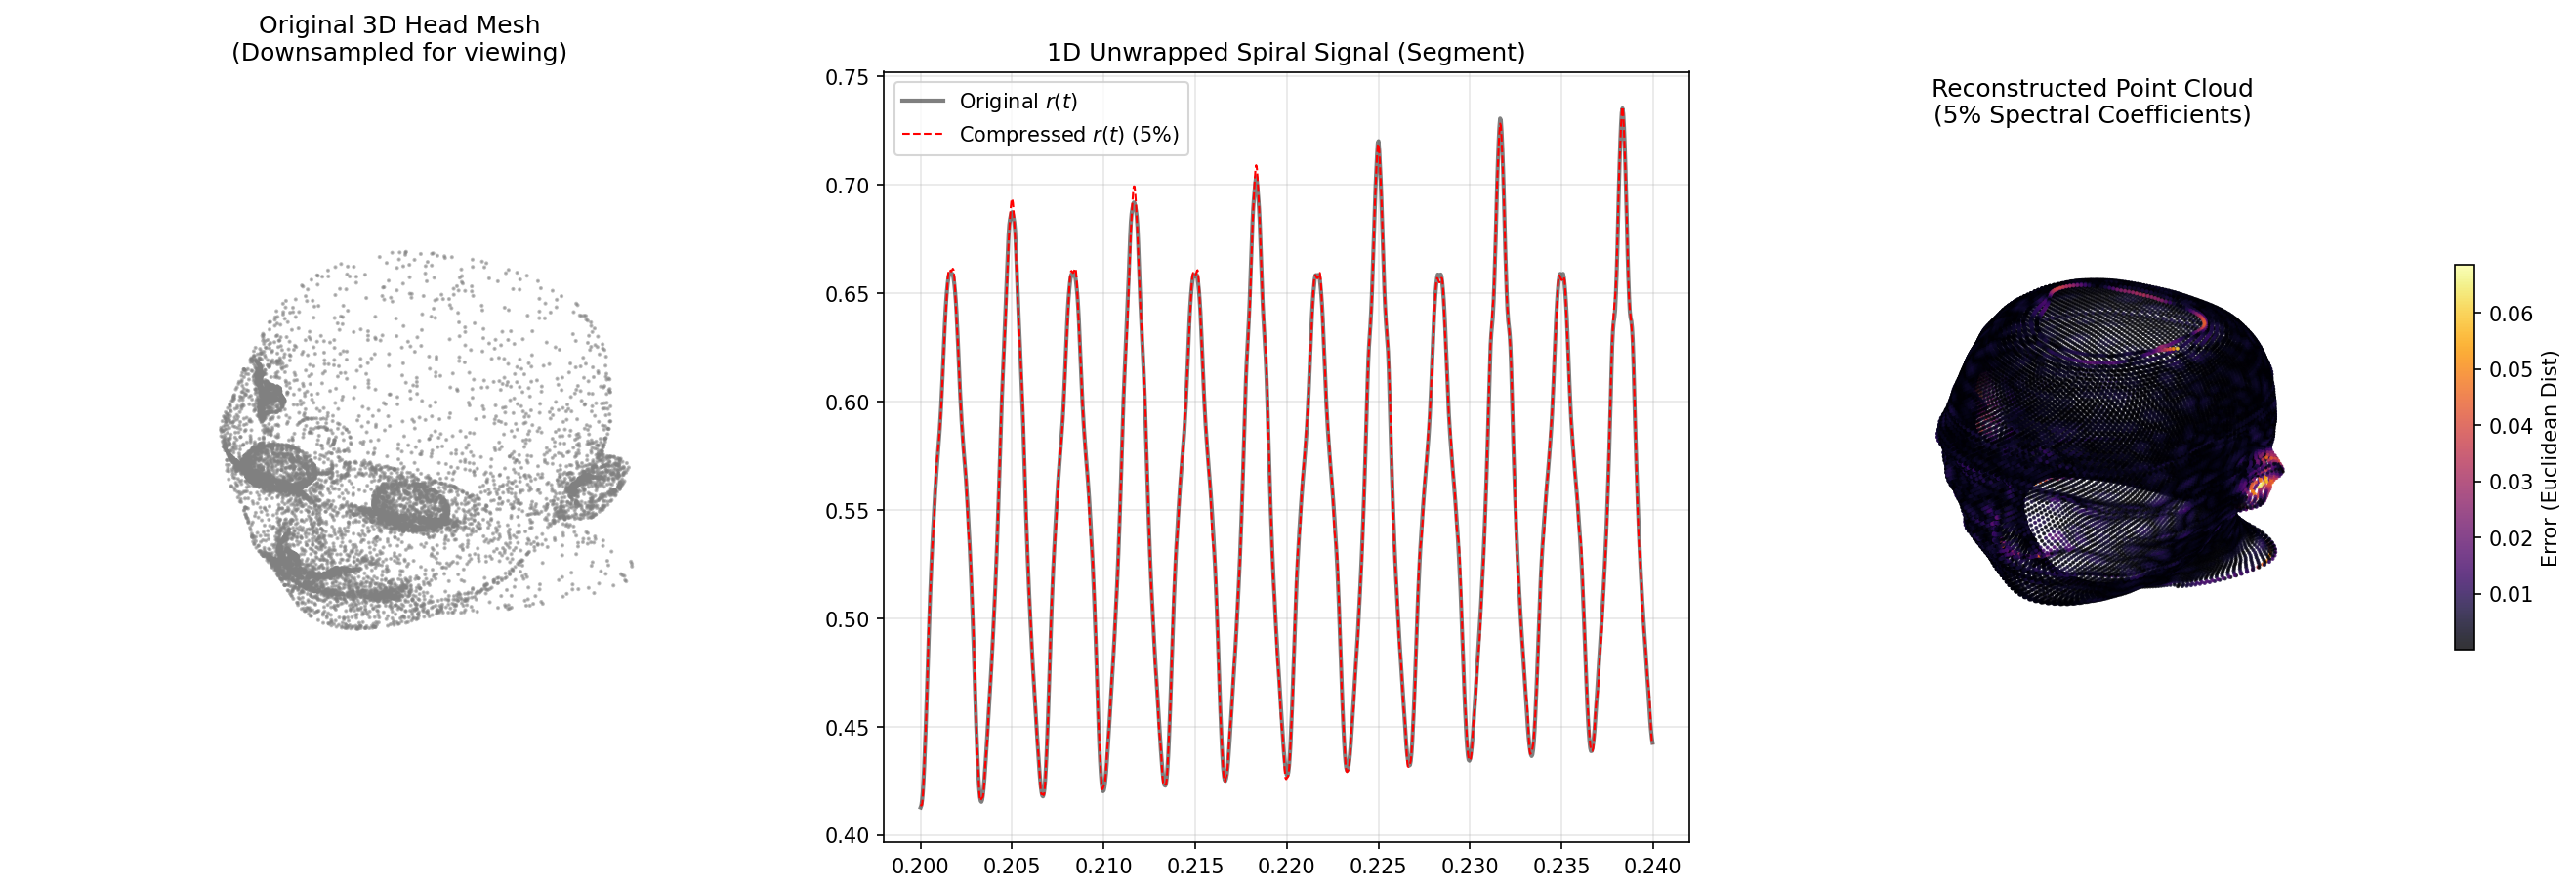
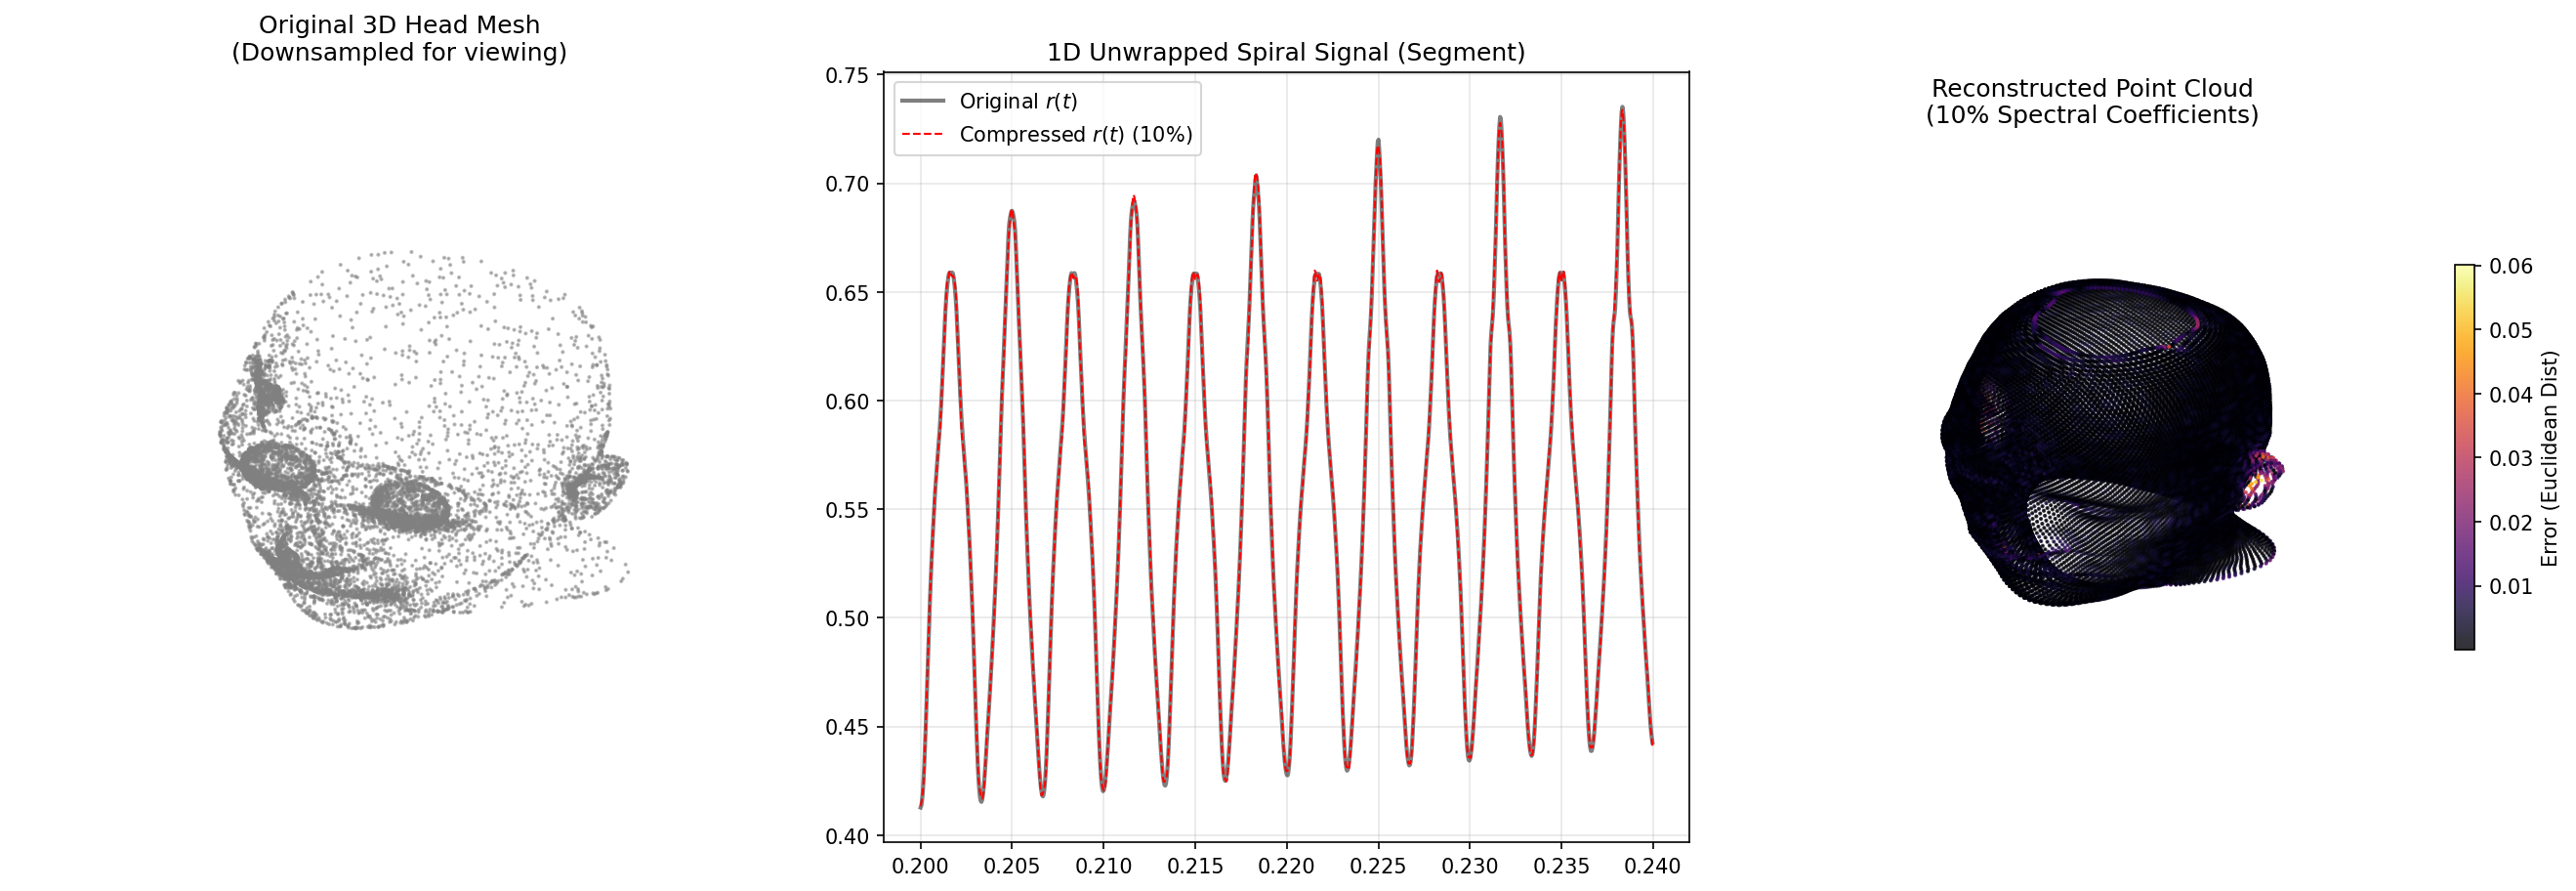
Add context

diff --git a/spectral-compression/scripts/mesh_compression_test.py b/spectral-compression/scripts/mesh_compression_test.py
@@ -103,8 +103,8 @@ def main():
     
     t, z_path, theta_path, r_path = raycast_spiral(mesh, n_windings=150, n_samples=25000)
     
-    # Keep 5% of coefficients
-    r_comp = spectral_compression(r_path, ratio=0.05)
+    # Keep 10% of coefficients
+    r_comp = spectral_compression(r_path, ratio=0.10)
     
     # Reconstruct 3D points
     print("Reconstructing compressed 3D point cloud...")
@@ -122,7 +122,7 @@ def main():
     recon_mesh = trimesh.Trimesh(vertices=np.column_stack((X, Y, Z)), faces=tri.simplices)
     # Fix normals and export
     recon_mesh.fix_normals()
-    export_path = "Head-3-Reconstructed.stl"
+    export_path = "Head-3-Reconstructed-10percent.stl"
     recon_mesh.export(export_path)
     print(f"Exported reconstructed mesh to {export_path}")
     
@@ -153,7 +153,7 @@ def main():
     ax2 = fig.add_subplot(132)
     segment = slice(5000, 6000)
     ax2.plot(t[segment], r_path[segment], 'k-', alpha=0.5, label='Original $r(t)$', linewidth=2)
-    ax2.plot(t[segment], r_comp[segment], 'r--', label='Compressed $r(t)$ (5%)', linewidth=1)
+    ax2.plot(t[segment], r_comp[segment], 'r--', label='Compressed $r(t)$ (10%)', linewidth=1)
     ax2.set_title("1D Unwrapped Spiral Signal (Segment)", fontsize=12)
     ax2.legend()
     ax2.grid(True, alpha=0.3)
@@ -162,7 +162,7 @@ def main():
     ax3 = fig.add_subplot(133, projection='3d')
     sc = ax3.scatter(X, Y, Z, c=errors, cmap='inferno', s=1, alpha=0.8)
     plt.colorbar(sc, ax=ax3, label='Error (Euclidean Dist)', shrink=0.5)
-    ax3.set_title("Reconstructed Point Cloud\n(5% Spectral Coefficients)", fontsize=12)
+    ax3.set_title("Reconstructed Point Cloud\n(10% Spectral Coefficients)", fontsize=12)
     ax3.axis('off')
     
     plt.tight_layout()